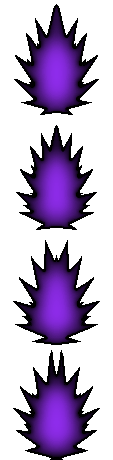
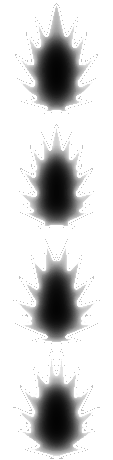
aura + radiant totem nerf + ki pots

diff --git a/Projectiles/Auras/BaseAuraProj.cs b/Projectiles/Auras/BaseAuraProj.cs
@@ -29,9 +29,9 @@ namespace DBZMOD.Projectiles.Auras
             projectile.damage = 0;
             BaseAuraTimer = 5;
             projectile.netUpdate = true;
-            AuraOffset.Y = -24;
+            AuraOffset.Y = -30;
 			projectile.light = 1f;
-			projectile.alpha = 20;
+			projectile.alpha = 50;
         }
         public override void PostAI()
         {
@@ -39,7 +39,7 @@ namespace DBZMOD.Projectiles.Auras
             {
                 if (Main.rand.NextFloat() < 1f)
                 {
-                    Dust dust = Dust.NewDustDirect(projectile.position, 113, 115, 63, 0f, 0f, 0, new Color(255, 255, 255), 0.7236842f);
+                    Dust dust = Dust.NewDustDirect(projectile.position, 113, 115, 63, 0f, 0f, 0, new Color(255, 255, 255), 0.75f);
                     dust.noGravity = true;
                 }
 
@@ -79,13 +79,12 @@ namespace DBZMOD.Projectiles.Auras
             }
             base.AI();
         }
-		public override bool PreDraw(SpriteBatch spriteBatch, Color lightColor)
-        {
+		public override void PostDraw(SpriteBatch spriteBatch, Color lightColor)
+		{
 			spriteBatch.End();
-            spriteBatch.Begin(SpriteSortMode.Texture, BlendState.Additive);                                                                                 
+            spriteBatch.Begin(SpriteSortMode.Texture, BlendState.Additive);
             spriteBatch.End();
             spriteBatch.Begin();
-			return true;
 		}
     }
 }

diff --git a/Items/Consumables/Potions/KiPotion1.cs b/Items/Consumables/Potions/KiPotion1.cs
@@ -23,21 +23,23 @@ namespace DBZMOD.Items.Consumables.Potions
             item.rare = 3;
             item.potion = false;
             IsKiPotion = true;
-            KiHeal = 200;
+            KiHeal = 330;
         }
 
         public override void SetStaticDefaults()
         {
             DisplayName.SetDefault("Lesser Ki Potion");
-            Tooltip.SetDefault("Restores 200 Ki.");
+            Tooltip.SetDefault("Restores 330 Ki.");
         }
 		 public override void AddRecipes()
         {
             ModRecipe recipe = new ModRecipe(mod);
-            recipe.AddIngredient(null, "StableKiCrystal", 2);
-            recipe.AddIngredient(null, "ScrapMetal", 2);
-            recipe.AddTile(null, "ZTable");
-            recipe.SetResult(this);
+            recipe.AddIngredient(null, "StableKiCrystal", 5);
+            recipe.AddIngredient(ItemID.Blinkroot, 2);
+            recipe.AddIngredient(ItemID.Waterleaf, 3);
+            recipe.AddIngredient(ItemID.BottledWater, 2);
+            recipe.AddTile(TileID.Bottles);
+            recipe.SetResult(this, 2);
             recipe.AddRecipe();
         }
     }

diff --git a/Items/Consumables/Potions/KiPotion3.cs b/Items/Consumables/Potions/KiPotion3.cs
@@ -23,22 +23,24 @@ namespace DBZMOD.Items.Consumables.Potions
             item.rare = 3;
             item.potion = false;
             IsKiPotion = true;
-            KiHeal = 550;
+            KiHeal = 1080;
         }
 
         public override void SetStaticDefaults()
         {
             DisplayName.SetDefault("Greater Ki Potion");
-            Tooltip.SetDefault("Restores 550 Ki.");
+            Tooltip.SetDefault("Restores 1080 Ki.");
         }
 		
 		 public override void AddRecipes()
         {
             ModRecipe recipe = new ModRecipe(mod);
             recipe.AddIngredient(null, "PridefulKiCrystal", 2);
-            recipe.AddIngredient(null, "KiPotion2", 1);
-            recipe.AddTile(null, "ZTable");
-            recipe.SetResult(this);
+            recipe.AddIngredient(ItemID.UnicornHorn, 5);
+            recipe.AddIngredient(ItemID.Waterleaf, 3);
+            recipe.AddIngredient(ItemID.BottledWater, 3);
+            recipe.AddTile(TileID.Bottles);
+            recipe.SetResult(this, 3);
             recipe.AddRecipe();
         }
     }

diff --git a/Items/Consumables/Potions/KiPotion4.cs b/Items/Consumables/Potions/KiPotion4.cs
@@ -23,21 +23,21 @@ namespace DBZMOD.Items.Consumables.Potions
             item.rare = 3;
             item.potion = false;
             IsKiPotion = true;
-            KiHeal = 1500;
+            KiHeal = 2180;
         }
 
         public override void SetStaticDefaults()
         {
-            DisplayName.SetDefault("Massive Ki Potion");
-            Tooltip.SetDefault("Restores 1500 Ki.");
+            DisplayName.SetDefault("Super Ki Potion");
+            Tooltip.SetDefault("Restores 2180 Ki.");
         }
 		 public override void AddRecipes()
         {
             ModRecipe recipe = new ModRecipe(mod);
-            recipe.AddIngredient(null, "AngerKiCrystal", 2);
-            recipe.AddIngredient(null, "KiPotion3", 1);
-            recipe.AddTile(null, "ZTable");
-            recipe.SetResult(this);
+            recipe.AddIngredient(null, "AngerKiCrystal", 3);
+            recipe.AddIngredient(null, "KiPotion3", 4);
+            recipe.AddTile(TileID.Bottles);
+            recipe.SetResult(this, 4);
             recipe.AddRecipe();
         }
     }

diff --git a/Items/Consumables/Potions/KiPotion5.cs b/Items/Consumables/Potions/KiPotion5.cs
@@ -23,13 +23,13 @@ namespace DBZMOD.Items.Consumables.Potions
             item.rare = 4;
             item.potion = false;
             IsKiPotion = true;
-            KiHeal = 2500;
+            KiHeal = 5100;
         }
 
         public override void SetStaticDefaults()
         {
-            DisplayName.SetDefault("Gigantic Ki Potion");
-            Tooltip.SetDefault("Restores 2500 Ki.");
+            DisplayName.SetDefault("Overflowing Ki Potion");
+            Tooltip.SetDefault("Restores 5100 Ki.");
         }
 		
 		 public override void AddRecipes()
@@ -37,7 +37,7 @@ namespace DBZMOD.Items.Consumables.Potions
             ModRecipe recipe = new ModRecipe(mod);
             recipe.AddIngredient(null, "PureKiCrystal", 2);
             recipe.AddIngredient(null, "KiPotion4", 1);
-            recipe.AddTile(null, "KaiTable");
+            recipe.AddTile(TileID.Bottles);
             recipe.SetResult(this);
             recipe.AddRecipe();
         }

diff --git a/Items/Consumables/Potions/KiPotion2.cs b/Items/Consumables/Potions/KiPotion2.cs
@@ -23,20 +23,20 @@ namespace DBZMOD.Items.Consumables.Potions
             item.rare = 3;
             item.potion = false;
             IsKiPotion = true;
-            KiHeal = 450;
+            KiHeal = 640;
         }
 
         public override void SetStaticDefaults()
         {
             DisplayName.SetDefault("Ki Potion");
-            Tooltip.SetDefault("Restores 450 Ki.");
+            Tooltip.SetDefault("Restores 640 Ki.");
         }
 		 public override void AddRecipes()
         {
             ModRecipe recipe = new ModRecipe(mod);
-            recipe.AddIngredient(null, "CalmKiCrystal", 2);
-            recipe.AddIngredient(null, "KiPotion1", 1);
-            recipe.AddTile(null, "ZTable");
+            recipe.AddIngredient(null, "CalmKiCrystal", 1);
+            recipe.AddIngredient(null, "KiPotion1", 2);
+            recipe.AddTile(TileID.Bottles);
             recipe.SetResult(this);
             recipe.AddRecipe();
         }

diff --git a/Items/Accessories/RadiantTotem.cs b/Items/Accessories/RadiantTotem.cs
@@ -10,7 +10,6 @@ namespace DBZMOD.Items.Accessories
         {
             Tooltip.SetDefault("It explodes with radiant energy." +
                 "\n12% Increased Ki damage" +
-                "\nIncreased flight speed" +
                 "\n+500 Max Ki" +
                 "\nDrastically increased ki regen");
             DisplayName.SetDefault("Radiant Totem");
@@ -30,7 +29,6 @@ namespace DBZMOD.Items.Accessories
             {
                 player.GetModPlayer<MyPlayer>(mod).KiDamage += 0.12f;
                 player.GetModPlayer<MyPlayer>(mod).KiMax2 += 500;
-                player.GetModPlayer<MyPlayer>(mod).FlightSpeedAdd += 0.5f;
                 player.GetModPlayer<MyPlayer>(mod).KiRegen += 2;
                 player.GetModPlayer<MyPlayer>(mod).radiantTotem = true;
             }

diff --git a/FlightSystem.cs b/FlightSystem.cs
@@ -97,7 +97,7 @@ namespace DBZMOD
                 {                    
                     for (int i = 0; i < (boostSpeed == 0 ? 2 : 10); i++)
                     {
-                        Dust tdust = Dust.NewDustDirect(player.position - (Vector2.UnitY * 0.7f) - (Vector2.UnitX * 3.5f), 30, 30, FlightDustType, 0f, 0f, 0, new Color(255, 255, 255), 1.5f);
+                        Dust tdust = Dust.NewDustDirect(player.position - (Vector2.UnitY * 0.7f) - (Vector2.UnitX * 3.5f), 30, 30, FlightDustType, 0f, 0f, 0, new Color(255, 255, 255), 0f);
                         tdust.noGravity = true;
                     }
                 }

diff --git a/Items/Consumables/KiFragment4.cs b/Items/Consumables/KiFragment4.cs
@@ -27,7 +27,7 @@ namespace DBZMOD.Items.Consumables
 
         public override void SetStaticDefaults()
         {
-            DisplayName.SetDefault("Greater Ki Fragment");
+            DisplayName.SetDefault("Enraged Ki Fragment");
             Tooltip.SetDefault("Increases your max ki by 2000.");
         }
 

diff --git a/Items/Consumables/KiFragment2.cs b/Items/Consumables/KiFragment2.cs
@@ -27,7 +27,7 @@ namespace DBZMOD.Items.Consumables
 
         public override void SetStaticDefaults()
         {
-            DisplayName.SetDefault("Lesser Ki Fragment");
+            DisplayName.SetDefault("Student Ki Fragment");
             Tooltip.SetDefault("Increases your max ki by 2000.");
         }
 

diff --git a/Items/Consumables/KiEssence2.cs b/Items/Consumables/KiEssence2.cs
@@ -26,7 +26,7 @@ namespace DBZMOD.Items.Consumables
 
         public override void SetStaticDefaults()
         {
-            DisplayName.SetDefault("Calmed Ki Scroll");
+            DisplayName.SetDefault("Student Ki Scroll");
             Tooltip.SetDefault("Increases your ki charge rate.");
         }
 

diff --git a/Items/Consumables/KiEssence3.cs b/Items/Consumables/KiEssence3.cs
@@ -26,7 +26,7 @@ namespace DBZMOD.Items.Consumables
 
         public override void SetStaticDefaults()
         {
-            DisplayName.SetDefault("Prideful Ki Scroll");
+            DisplayName.SetDefault("Adept Ki Scroll");
             Tooltip.SetDefault("Increases your ki charge rate.");
         }
 
